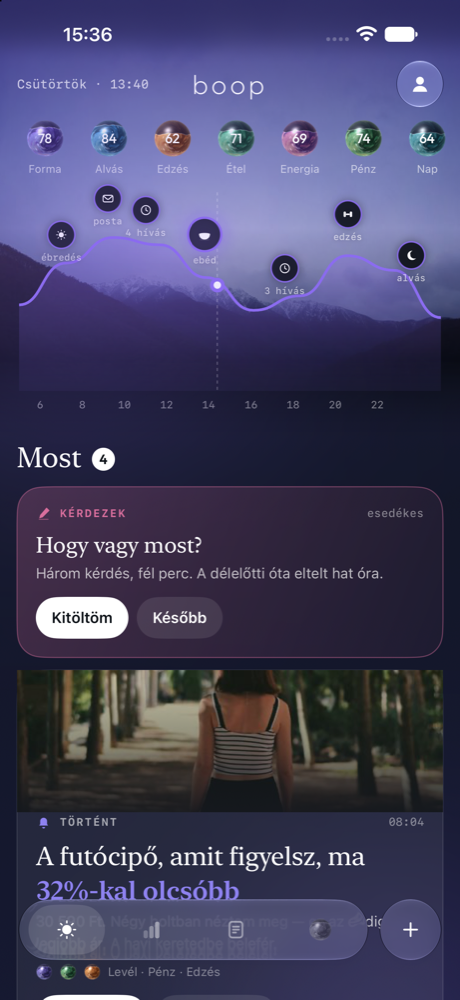
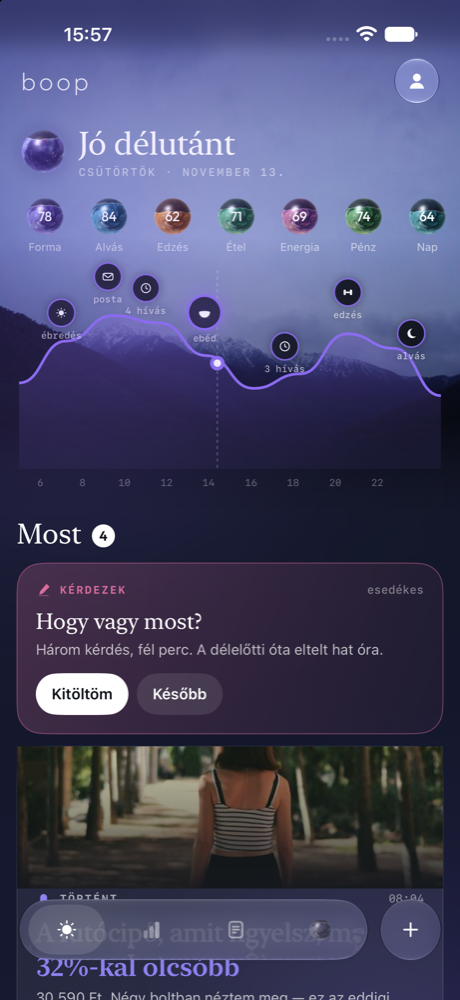
docs(boop-life): give the top of Ma a home-screen welcome (mezo-r36n9.33)
Owner: 'még mindig nincs homescreen feeling itt fent'. Right — stripping the top to pure
instrumentation had removed every form of address.

- A greeting block: Boop's living orb (no number) beside a serif 'Jó délutánt' and the date
  in mono. The orb is back as presence, not as a score.
- The top line keeps only the boop mark and the avatar; the date moved into the greeting.
- The hero photo was over-veiled into a flat wash — the gradient now opens to clear by the
  horizon, so the mountains are actually there.
- The chart was quietened (softer fill falloff, lighter hour labels) so it stops reading as
  an analytics widget bolted to the top.

diff --git a/docs/design_2.0/prototypes/boop-ios-spike/BoopSpike/EletMa.swift b/docs/design_2.0/prototypes/boop-ios-spike/BoopSpike/EletMa.swift
@@ -119,7 +119,7 @@ struct EletMa: View {
             GeometryReader { geo in
                 ScrollView {
                     VStack(spacing: 0) {
-                        hero(height: geo.size.height * 0.415 + geo.safeAreaInsets.top)
+                        hero(height: geo.size.height * 0.50 + geo.safeAreaInsets.top)
                         VStack(alignment: .leading, spacing: 22) {
                             feed
                             folds
@@ -158,10 +158,10 @@ struct EletMa: View {
                         photo(name).resizable().scaledToFill()
                             .saturation(0.8).brightness(-0.06)
                             .overlay(LinearGradient(stops: [
-                                .init(color: day.top.opacity(0.8), location: 0),
-                                .init(color: day.top.opacity(0.3), location: 0.3),
-                                .init(color: day.sky[2].opacity(0.16), location: 0.52),
-                                .init(color: gBase.opacity(0.6), location: 0.82),
+                                .init(color: day.top.opacity(0.52), location: 0),
+                                .init(color: day.top.opacity(0.14), location: 0.26),
+                                .init(color: .clear, location: 0.46),
+                                .init(color: gBase.opacity(0.55), location: 0.84),
                                 .init(color: gBase, location: 1),
                             ], startPoint: .top, endPoint: .bottom))
                             .overlay(Rectangle().fill(day.glow).opacity(0.07).blendMode(.color))
@@ -175,18 +175,28 @@ struct EletMa: View {
 
             VStack(spacing: 0) {
                 HStack {
-                    Text("Csütörtök · 13:40").font(AuraFont.mono(12)).foregroundStyle(.white.opacity(0.75))
-                        .frame(width: 130, alignment: .leading)
+                    Text("boop").font(.custom("Outfit", size: 24).weight(.light)).tracking(3)
+                        .foregroundStyle(.white.opacity(0.9))
                     Spacer()
-                    Text("boop").font(.custom("Outfit", size: 26).weight(.light)).tracking(3).foregroundStyle(.white)
-                    Spacer()
-                    AuraGlyph("person-sage", .white, size: 20).frame(width: 44, height: 44)
+                    AuraGlyph("person-sage", .white, size: 20).frame(width: 42, height: 42)
                         .glassEffect(.clear, in: .circle)
-                        .frame(width: 130, alignment: .trailing)
                 }
-                .padding(.horizontal, 16).padding(.top, 58)
+                .padding(.horizontal, 20).padding(.top, 56)
 
-                orbRibbon.padding(.top, 12)
+                // the welcome: Boop is here, it is this part of this day
+                HStack(alignment: .center, spacing: 13) {
+                    LivingOrb(mood: .good, size: 42, motion: motion, palette: day.orb, glow: true, level: 0.78)
+                        .allowsHitTesting(false)
+                    VStack(alignment: .leading, spacing: 3) {
+                        Text("Jó délutánt").font(AuraFont.serif(31)).foregroundStyle(.white)
+                        Text("CSÜTÖRTÖK · NOVEMBER 13.").font(AuraFont.mono(10.5)).tracking(1.8)
+                            .foregroundStyle(.white.opacity(0.6))
+                    }
+                    Spacer(minLength: 0)
+                }
+                .padding(.horizontal, 20).padding(.top, 20)
+
+                orbRibbon.padding(.top, 18)
 
                 EDayCurve(values: EDay.curve, labels: EDay.hours, events: EDay.events,
                           hue: day.glow, now: 0.47, height: 220)

diff --git a/docs/design_2.0/prototypes/boop-ios-spike/BoopSpike/EletKit.swift b/docs/design_2.0/prototypes/boop-ios-spike/BoopSpike/EletKit.swift
@@ -410,8 +410,8 @@ struct EDayCurve: View {
                     var fill = line
                     fill.addLine(to: CGPoint(x: s.width, y: s.height - 22))
                     fill.addLine(to: CGPoint(x: 0, y: s.height - 22)); fill.closeSubpath()
-                    ctx.fill(fill, with: .linearGradient(Gradient(colors: [hue.opacity(0.42), hue.opacity(0.02)]),
-                                                        startPoint: .zero, endPoint: CGPoint(x: 0, y: s.height)))
+                    ctx.fill(fill, with: .linearGradient(Gradient(colors: [hue.opacity(0.34), hue.opacity(0.0)]),
+                                                        startPoint: .zero, endPoint: CGPoint(x: 0, y: s.height * 1.1)))
                     ctx.stroke(line, with: .color(hue), style: StrokeStyle(lineWidth: 2.6, lineCap: .round, lineJoin: .round))
 
                     let nx = s.width * CGFloat(pos)
@@ -479,7 +479,7 @@ struct EDayCurve: View {
 
                 HStack(spacing: 0) {
                     ForEach(labels.indices, id: \.self) { i in
-                        Text(labels[i]).font(AuraFont.mono(10)).foregroundStyle(.white.opacity(0.45))
+                        Text(labels[i]).font(AuraFont.mono(9.5)).foregroundStyle(.white.opacity(0.32))
                             .frame(maxWidth: .infinity)
                     }
                 }

diff --git a/docs/superpowers/research/boop-standalone/14-decisions.md b/docs/superpowers/research/boop-standalone/14-decisions.md
@@ -17,4 +17,4 @@ Issue `mezo-r36n9.9`. Each decision was put to the owner in the CLAUDE.md §Comm
 | 11 | 2026-11-13 | How you reach the domain areas (Étel, Edzés, Pénz, Alvás…) once the orb strip is gone | **Terv is the home of the areas** | Rejected: a fifth bottom-bar button (brings back the clutter just removed) and scroll-only (every visit to an area means scrolling the whole day). Terv now holds the life goal plus one card per area, each showing today's verdict *and* what the area contributes to the goal; the card opens that area's own page. The bar keeps four items and reads: Ma = now · Terv = my goal and my areas · Napló = what happened · Boop = I ask. Fast paths stay: a row in the day, the loud cards at the bottom of Ma, and `+` to record. Areas renamed to the spine vocabulary: Fuel → Étel, Mozgás → Edzés, Közérzet → Energia. Spike `-elet YES`, screenshots `elet-11`, `elet-12`. |
 | 12 | 2026-11-13 | "Hideg és dobozolós" — should the area pages borrow from the old Lágy look? | **The warm variant** | He compared the shipped-era Lágy screen with the Élet spike. Diagnosis: of the four things that made Lágy feel warmer, **two were free to borrow** — a real photo in the head (already decision #10, Képek variant A) and **colour inside the content**, not only in the sky and the orbs — and the boxiness was the prototype's own fault (six to eight identical rounded rectangles stacked). The other two (light paper, coloured illustrated icons) he had already rejected on 2026-11-10 and in the icon round, and stay out. So: photo heads where a compliant photo exists (painted landscape as the fallback, as Képek §3.3 allows), the area's hue on key numbers and marked spans inside the text, photo thumbnails on rows that are *things*, and the cards dropped from the stats / curve / composition / row-list blocks. A/B shot side by side (`elet-x1`, `elet-x2`) before the choice. Follow-up: four of the seven worlds have no mood photo yet (`mezo-r36n9.44`). |
 | 13 | 2026-11-13 | What is the Ma home screen? | **A living wall, not a timeline** | Two findings of his, in one: (a) *"ez a nagy szám nekem nem mond semmit — attól nem fogom jól érezni magam, hogy mit mond a szám"*, and (b) *"egész nap a reggeli üzenetet mutatjuk? … kontextuálisan, amikor megnyitom az appot, mutassa, mintha üzenne nekem"*. So Ma becomes **what Boop wants to say right now**: at most **three cards** (teendő · történt · készülj · reakció), the **check-in pinned above them while it is due**, a card you act on **settles into "Ma történt"** instead of vanishing, and when there is nothing it says so warmly — an empty wall is good news. The **big 0–100 score leaves the home**: the orb stays as the hero without a number, and the score keeps its meaning only inside an area, next to the data it came from. Below the wall: the **morning briefing** and the **day's timeline**, each folded into one row (open in the morning, closed later), then **the day's energy curve** (forward-looking, which a score is not) and the cross-area **observations**. The per-area levels leave the home entirely — Terv is their place. **This amends decision #1** ("Ma = the day as one timeline"): the timeline is not dropped, it becomes a folded section. Executable: `EletFeed.swift`, screenshots `elet-1`, `elet-2`, `elet-3`. |
-| 14 | 2026-11-13 | The Ma hero, and where the day lives | **The day's curve is the hero; "A nap" becomes the seventh area** | He rejected the lone orb + sentence too. Three of his asks resolve into one move: the hero of Ma is **the shape of the day** — the energy curve with the big moments pinned on it (wake · post · call block · lunch · call block · workout · sleep) and the "now" marker, with one sentence under it and the orb shrunk to a 34 pt speaker mark. "A napod" stops being a folded row and becomes a **seventh area with its own page** — which is the same thing as the day-capacity idea he asked for, so one page, not two: how full the day is from the calendar, each event with its AI-scored load and how prepared he is, the energy curve with the "below this it is hard to start anything" line, the full day's agenda, and the week's load. **This is B7 "Napi kapacitás" given a home and a face**; the scoring stays labelled as learning until weeks of check-in data calibrate it. Area index 6; Levél moves to 7. **Round 2 of the hero (same day):** bigger (232 pt), and you **run your finger along it** — the marker follows, the time and the state (gödör · lassul · stabil · jó forma) read out above it, the nearest moment lights up and tells you what it is, with a haptic tick as you pass one. Sideways drags scrub, vertical drags still scroll the page. Tapping the curve no longer navigates — the day's own page is reached from the `A napod` row. **Round 3 (same day):** the sentence under the curve went (the curve says it, and the scrubber says it better); the **orbs came back above the curve as a thin scrollable ribbon** — a readout, not a menu, which is why it no longer collides with the bottom bar the way the first strip did (Terv stays the home of the areas); the duplicated `A nap energiája` section left Ma, since the hero IS that curve now, and lives only on the Nap page; and `Amit ma észrevettem` became proper cards — a hue rule, overlapping area orbs, a serif claim and the numbers lit inside the body. Screenshots `elet-1-ma.png`, `elet-4-nap.png`. |
+| 14 | 2026-11-13 | The Ma hero, and where the day lives | **The day's curve is the hero; "A nap" becomes the seventh area** | He rejected the lone orb + sentence too. Three of his asks resolve into one move: the hero of Ma is **the shape of the day** — the energy curve with the big moments pinned on it (wake · post · call block · lunch · call block · workout · sleep) and the "now" marker, with one sentence under it and the orb shrunk to a 34 pt speaker mark. "A napod" stops being a folded row and becomes a **seventh area with its own page** — which is the same thing as the day-capacity idea he asked for, so one page, not two: how full the day is from the calendar, each event with its AI-scored load and how prepared he is, the energy curve with the "below this it is hard to start anything" line, the full day's agenda, and the week's load. **This is B7 "Napi kapacitás" given a home and a face**; the scoring stays labelled as learning until weeks of check-in data calibrate it. Area index 6; Levél moves to 7. **Round 2 of the hero (same day):** bigger (232 pt), and you **run your finger along it** — the marker follows, the time and the state (gödör · lassul · stabil · jó forma) read out above it, the nearest moment lights up and tells you what it is, with a haptic tick as you pass one. Sideways drags scrub, vertical drags still scroll the page. Tapping the curve no longer navigates — the day's own page is reached from the `A napod` row. **Round 3 (same day):** the sentence under the curve went (the curve says it, and the scrubber says it better); the **orbs came back above the curve as a thin scrollable ribbon** — a readout, not a menu, which is why it no longer collides with the bottom bar the way the first strip did (Terv stays the home of the areas); the duplicated `A nap energiája` section left Ma, since the hero IS that curve now, and lives only on the Nap page; and `Amit ma észrevettem` became proper cards — a hue rule, overlapping area orbs, a serif claim and the numbers lit inside the body. **Round 4 — "nincs homescreen feeling itt fent":** stripping the top to pure instrumentation had removed the welcome. Added back, in this order: the `boop` mark and the avatar on a quiet line · a **greeting block** — Boop's orb (living, no number) beside a serif *"Jó délutánt"* and the date in mono · the orb ribbon · the curve. And the photo was being over-veiled into a flat wash, so the hero gradient was opened up (0.52 → clear by the horizon) and the chart quietened (softer fill, lighter hour labels) so it stops reading as an analytics widget. Screenshots `elet-1-ma.png`, `elet-4-nap.png`. |
